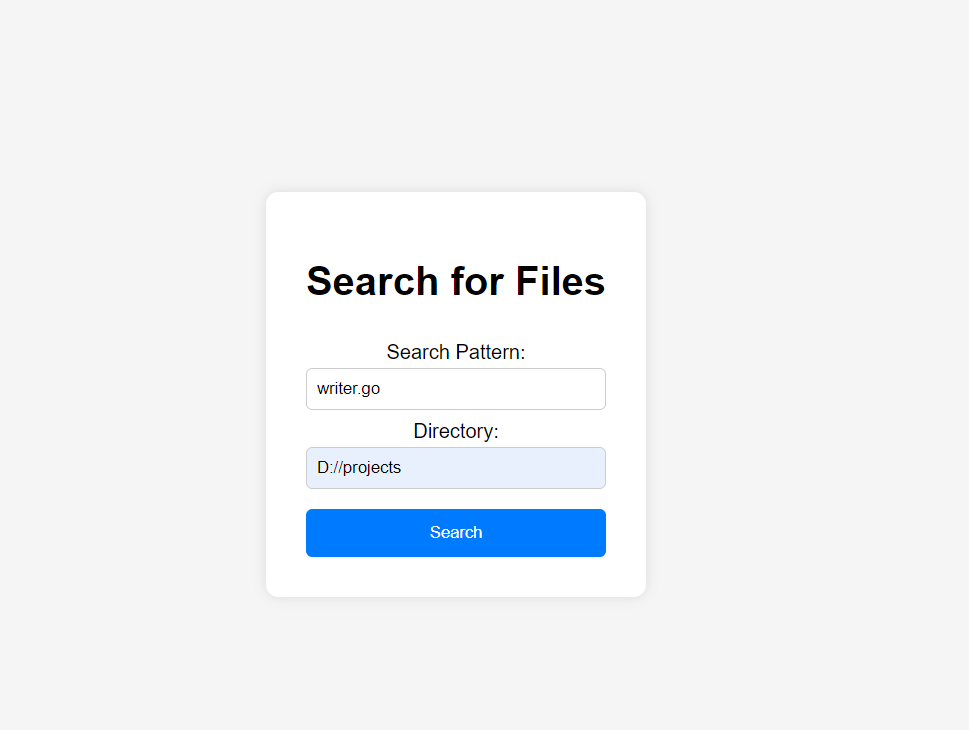
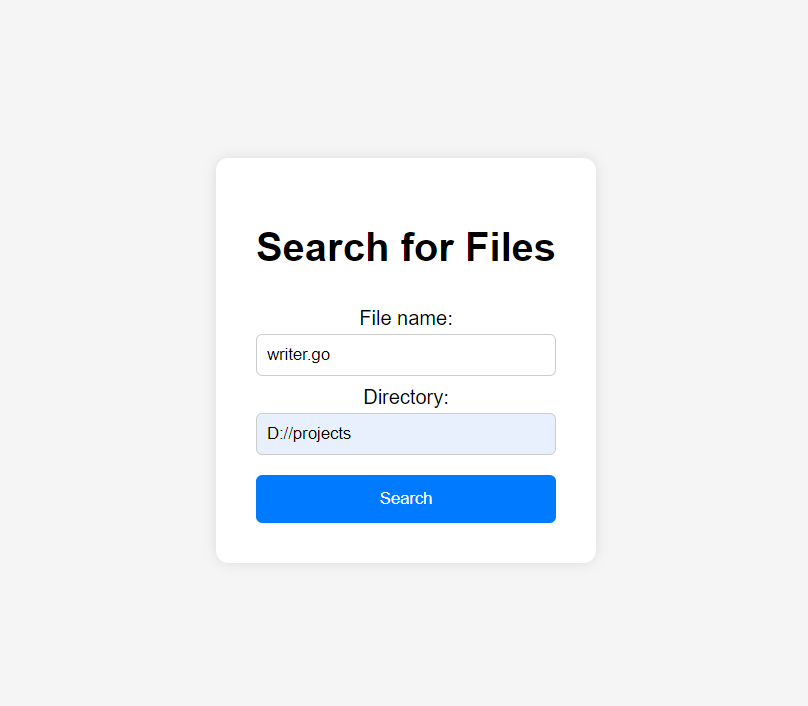
docs: update README.md
docs: update README.md

Changed region(s): [[0.3094, 0.5297, 0.7116, 0.779], [0.3094, 0.3116, 0.6807, 0.4051], [0.3094, 0.4363, 0.5569, 0.5609]]

diff --git a/README.md b/README.md
@@ -1,6 +1,6 @@
-# Go Search Your File in Web
+# File searcher
 
-This is a simple Go application that allows users to search for files in a specified directory using regular expressions. The application run as web application or as a command-line tool.
+This is a simple Go application that allows users to search for files in a specified directory. The application run as web application or as a command-line tool.
 
 ![Search Form](assets/search_form.png)
 *The user-friendly HTML form where you input your search criteria.*
@@ -16,15 +16,15 @@ This is a simple Go application that allows users to search for files in a speci
   
 - **Command-Line Interface (CLI):**
   - Search for files or directories directly from the terminal.
-  - Supports exact name matching using regular expressions.
+  - Supports exact name matching.
 
 
 ## Setup and Running
 
 1. **Clone the repository:**
     ```sh
-   git clone https://github.com/Vkanhan/go-search-your-files.git
-   cd go-search-your-files
+   git clone https://github.com/Vkanhan/filesearcher.git
+   cd filesearcher
    ```
 
 2. **Running as a Web Application:**
@@ -41,7 +41,7 @@ This is a simple Go application that allows users to search for files in a speci
     ```
     **Example CLI usage**
     ```$ go run main.go -cli
-    Enter the regex pattern to search for: search_result.png
+    Enter the file name to search for: search_result.png
     Enter the directory to search in: D://
     Matches found:
     D:\Projects\filesearcher\assets\search_result.png
@@ -50,7 +50,7 @@ This is a simple Go application that allows users to search for files in a speci
   
     **-cli:** Enables CLI mode.
 
-    **-pattern:** (optional) Specifies the regex pattern to search for directly via the command line.
+    **-filename:** (optional) Specifies the file name to search for directly via the command line.
 
     **-directory:** (optional) Specifies the directory to search in directly via the command line.
 
@@ -60,7 +60,7 @@ This is a simple Go application that allows users to search for files in a speci
 
   1. Open the application in your web browser at http://localhost:8080.
 
-  2. Enter a regex pattern and a valid directory path in the search form.
+  2. Enter the file name and a valid directory path in the search form.
 
   3. Submit the form to view the search results.
 
@@ -68,7 +68,7 @@ This is a simple Go application that allows users to search for files in a speci
 
   1. Run the application with the -cli flag.
 
-  2. Enter the regex pattern and directory when prompted.
+  2. Enter the file name and directory when prompted.
 
   3. The application will display any matches found.
 
